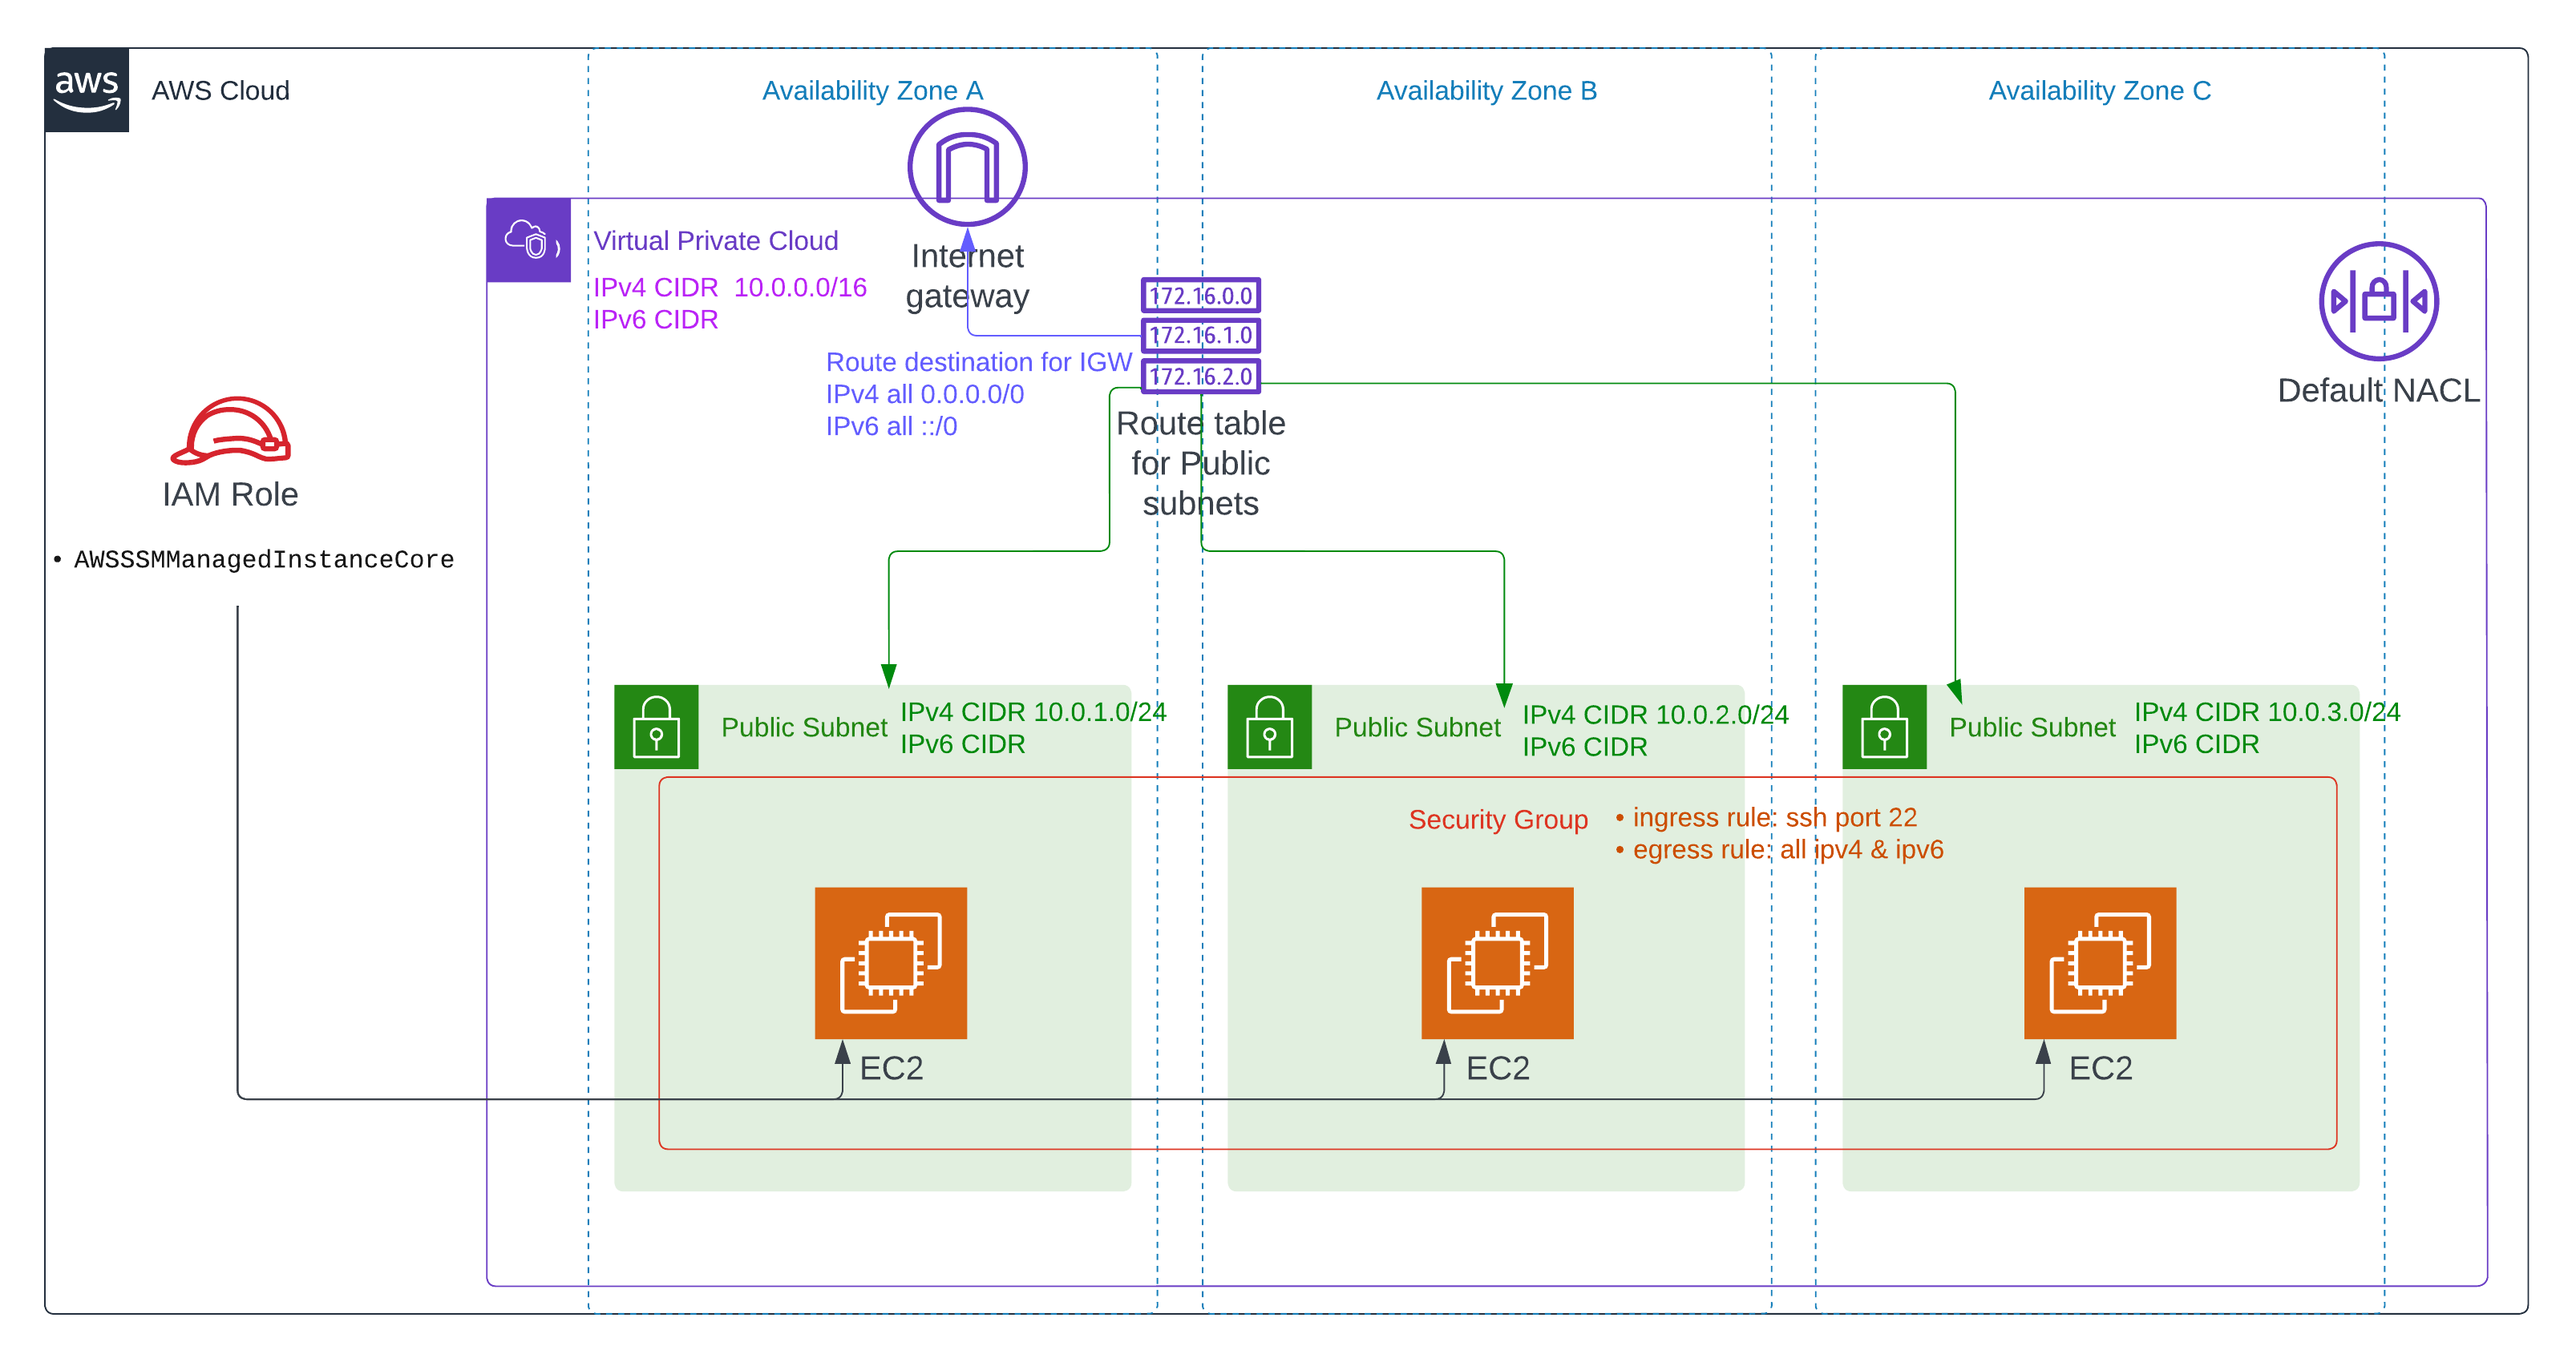
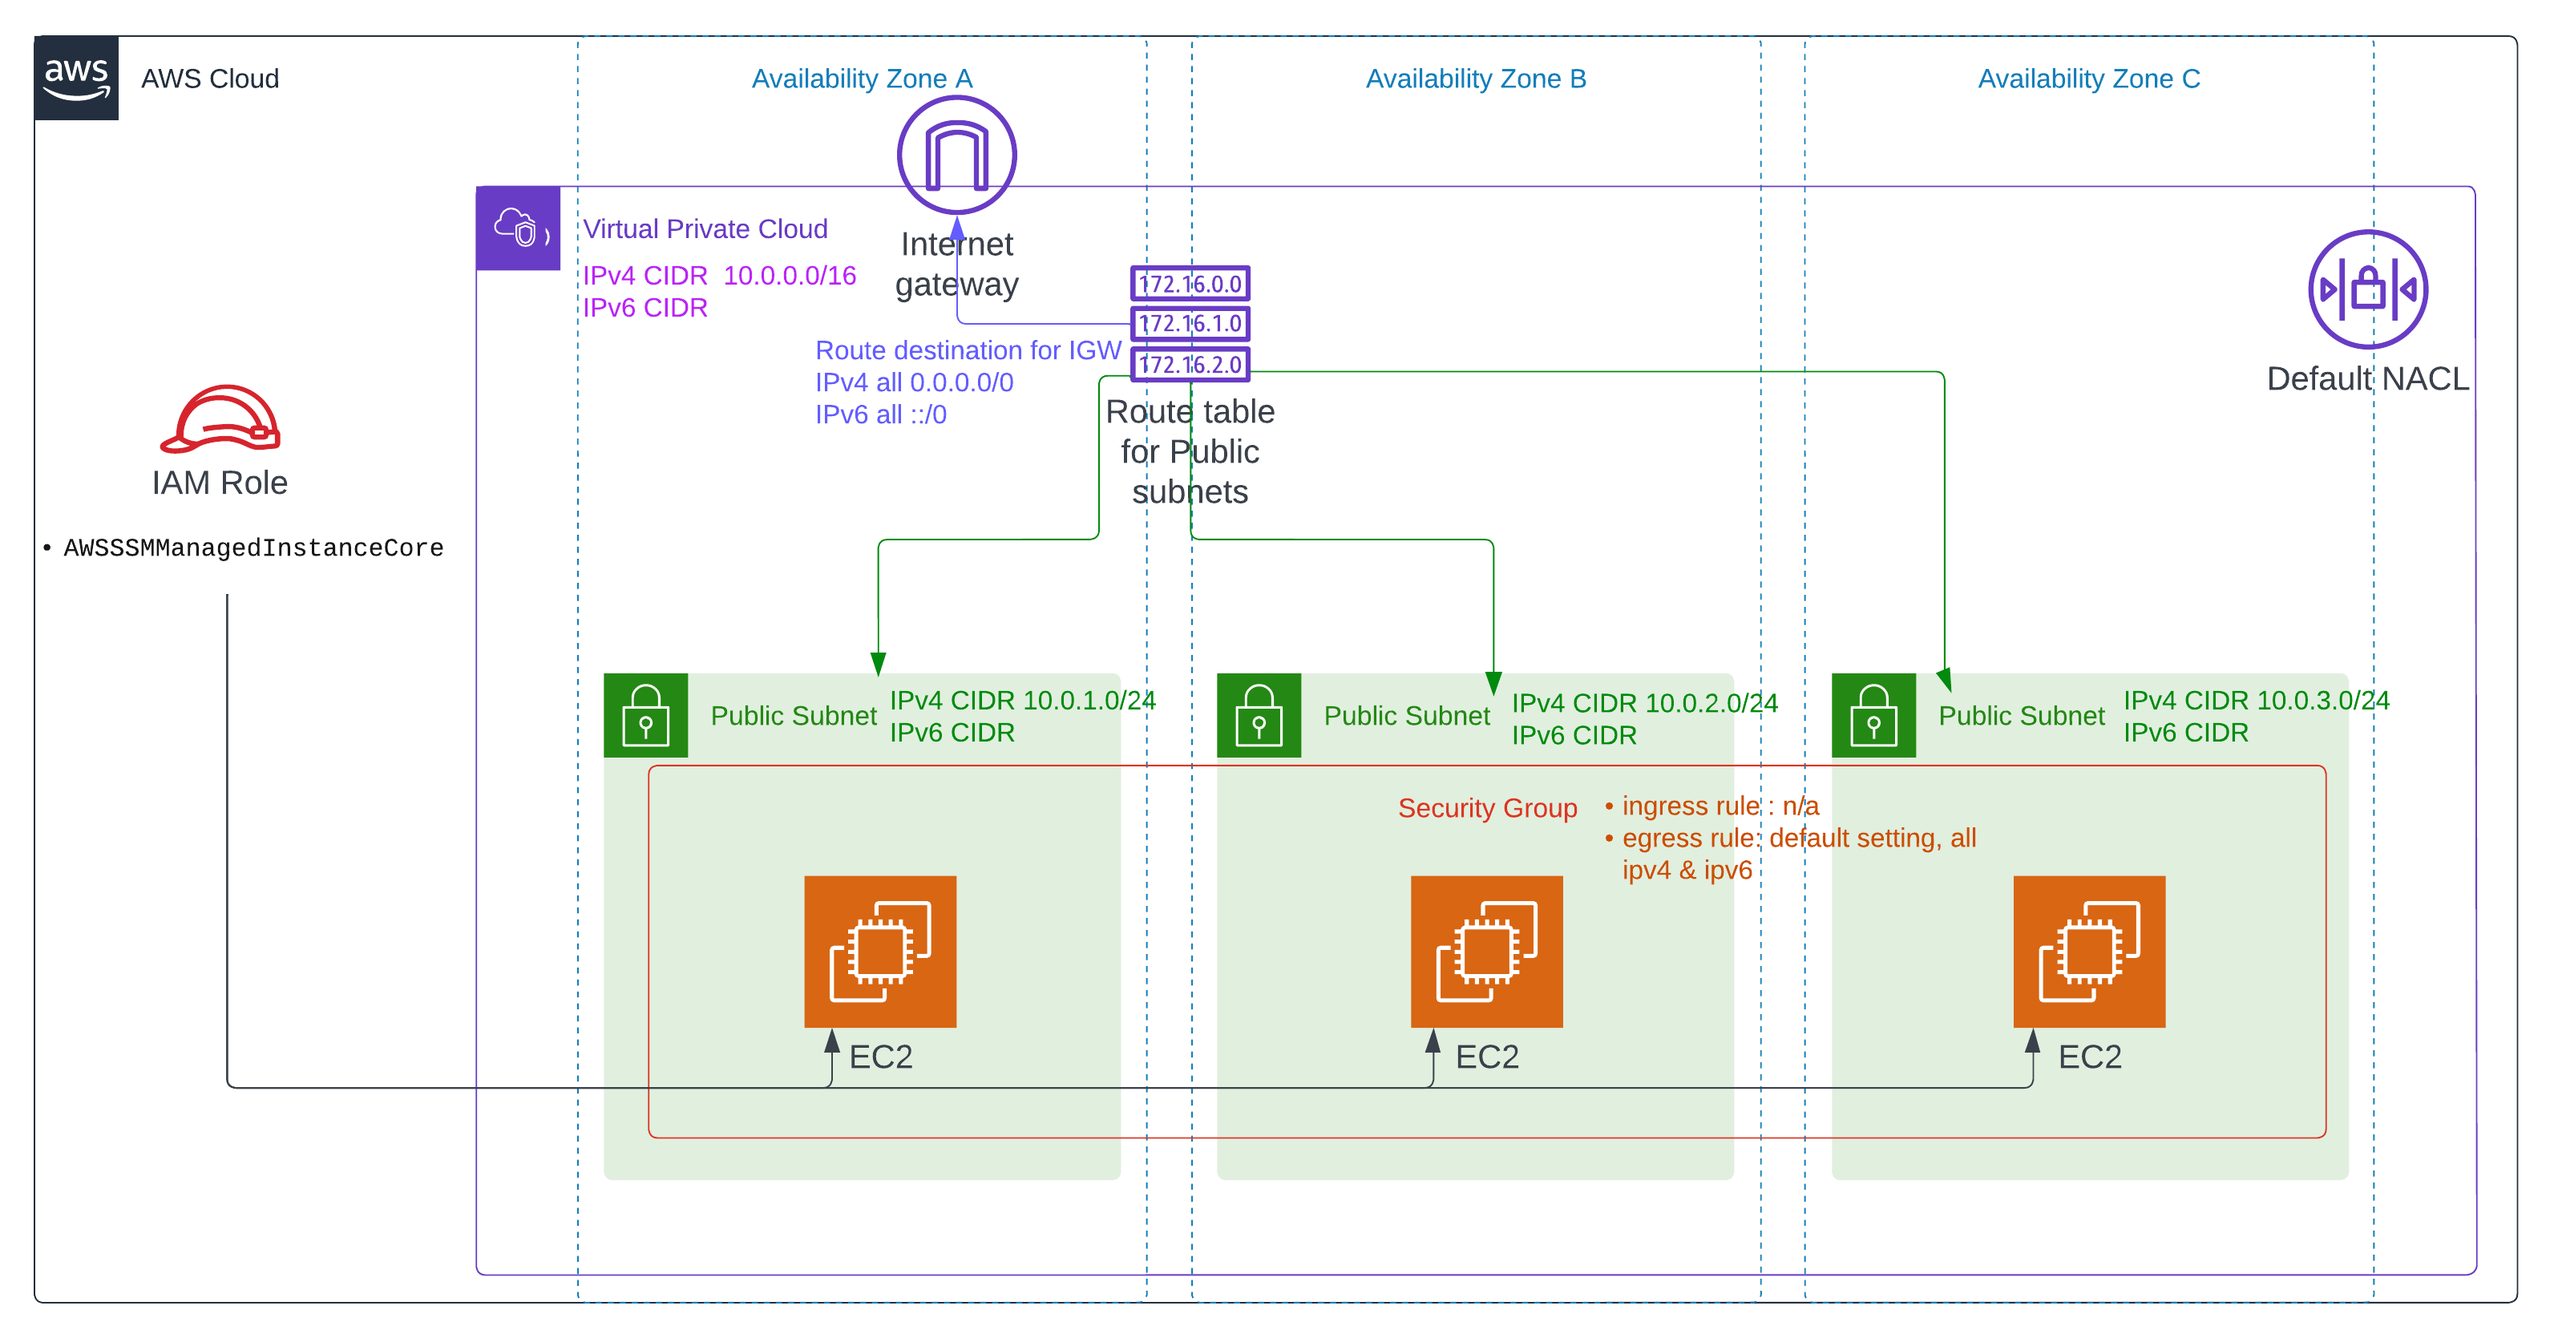
change diagram and add note

diff --git a/tech-tutorials/infrastructure/terraform/create-public-subnets/README.md b/tech-tutorials/infrastructure/terraform/create-public-subnets/README.md
@@ -1,1 +1,3 @@
 ![diagram](https://github.com/grit-coding/DevToCodeSnippets/blob/main/tech-tutorials/infrastructure/terraform/create-public-subnets/images/diagram.png) 
+
+curl http://169.254.169.254/latest/meta-data/instance-id
